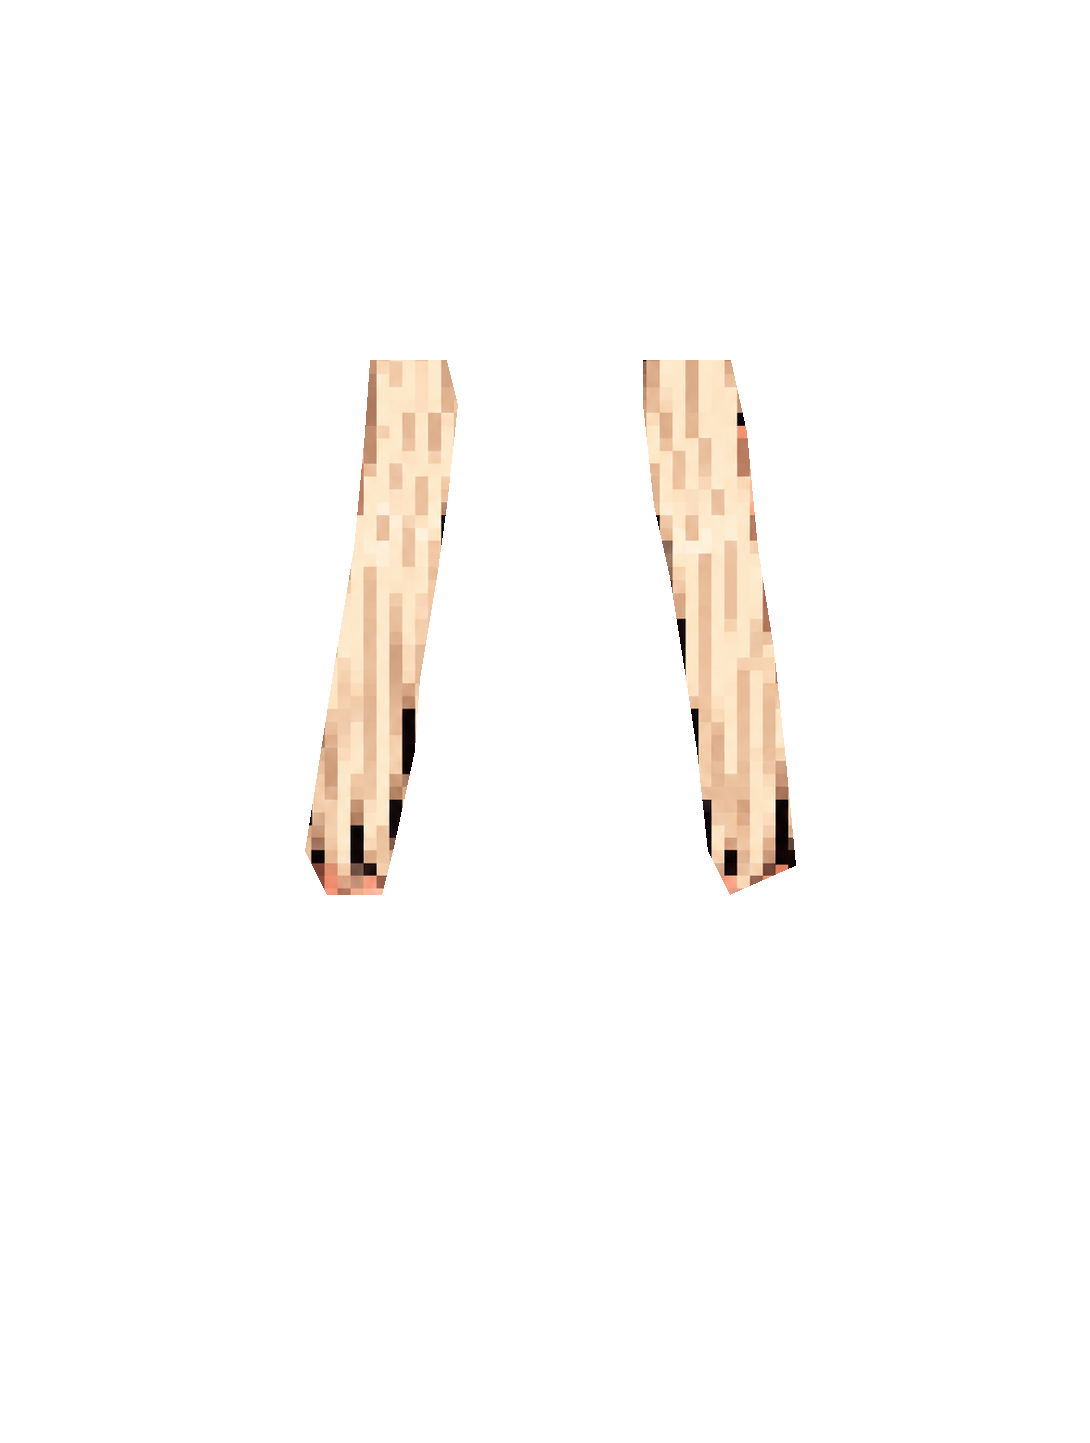
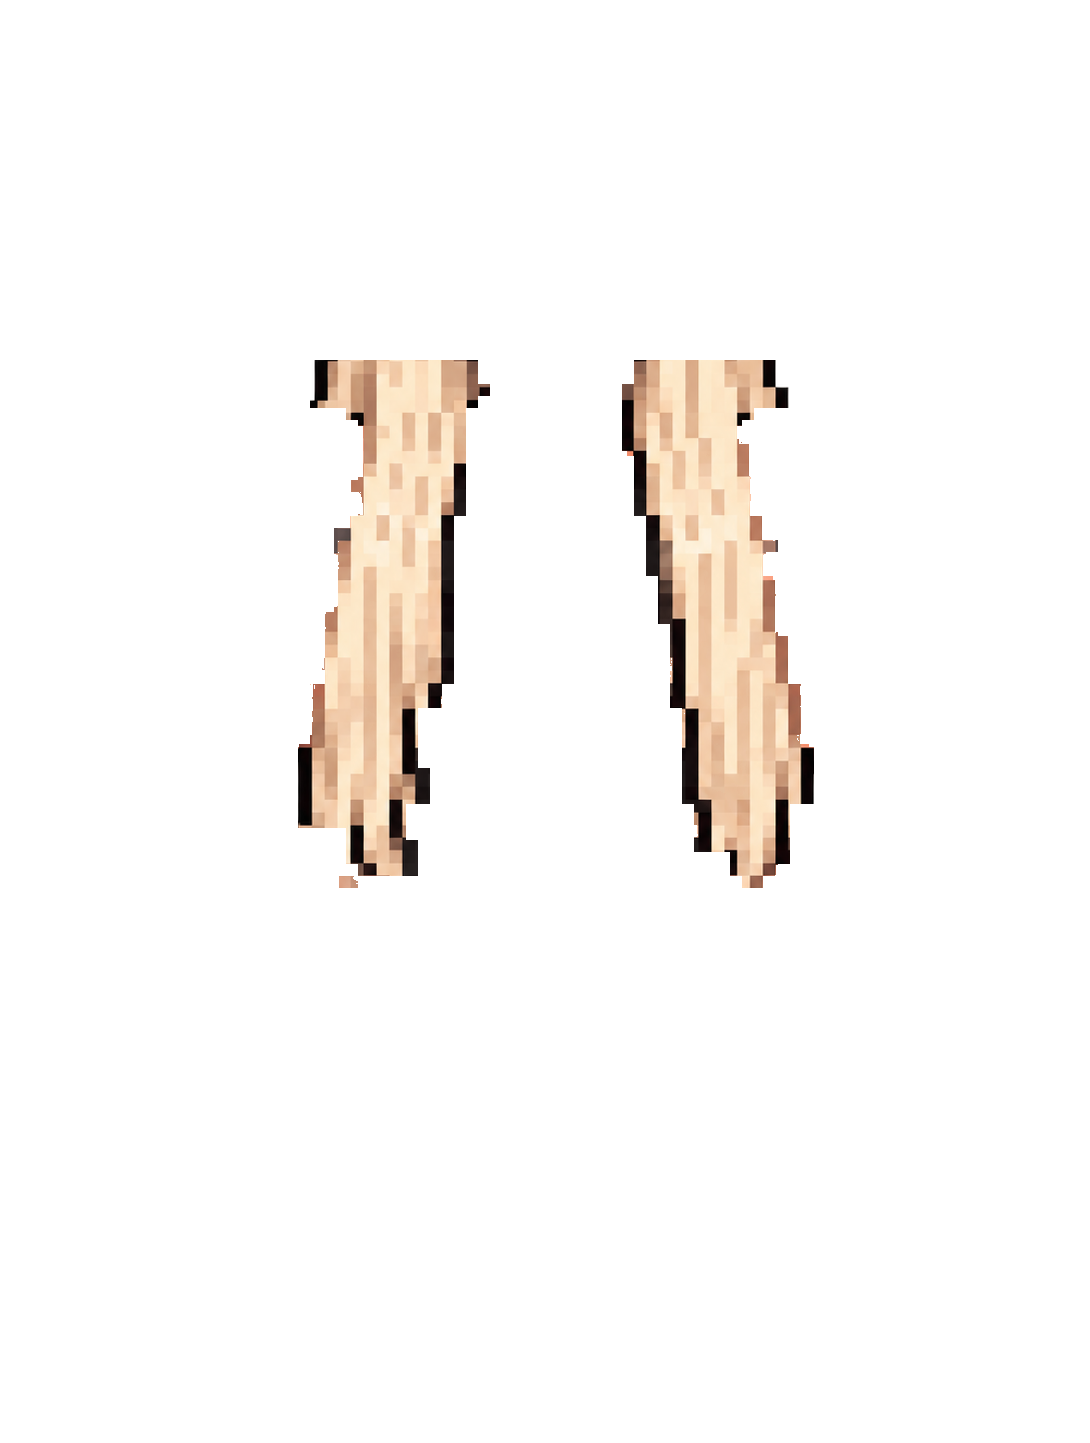
mj: make the jacket, hair and boots line up properly
- Hair that falls over the jacket is now traced strand by strand on Molly's
  pixel grid (it used to be a rough polygon that sliced the strands)
- Jacket is wider and sits higher so it covers her shoulders and upper arms
- Boot tops are square so her knees no longer poke out at the sides

Claude-Session: https://claude.ai/code/session_01CkbLwMM1TM9tiKy6spwhfY

diff --git a/mj/index.html b/mj/index.html
@@ -89,7 +89,7 @@ h1{margin:0;font-size:0}
 const DOLL_W = 1090, DOLL_H = 1443, TOP = 48;
 const ITEMS = [
   { id: 'hat',    name: 'pink cowboy hat', src: 'assets/items/hat.png',    x: 274, y: -36,  w: 552, z: 5 },
-  { id: 'jacket', name: 'camo jacket',     src: 'assets/items/jacket.png', x: 202, y: 384,  w: 708, z: 3 },
+  { id: 'jacket', name: 'camo jacket',     src: 'assets/items/jacket.png', x: 166, y: 360,  w: 756, z: 3 },
   { id: 'boots',  name: 'buckle boots',    src: 'assets/items/boots.png',  x: 334, y: 1104, w: 444, z: 2 },
 ];
 
